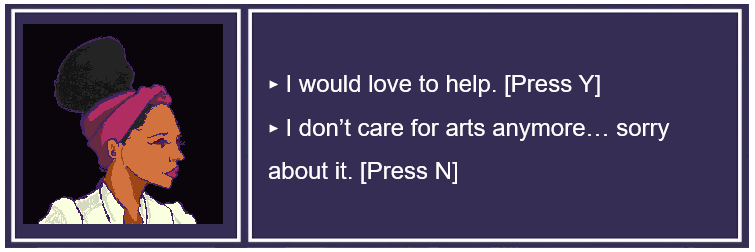
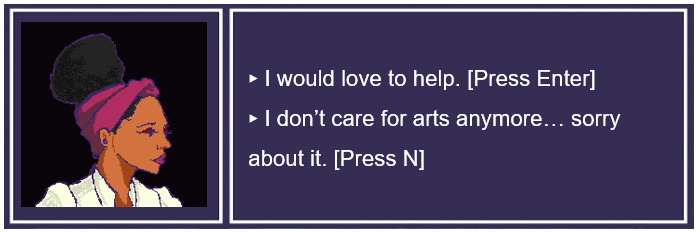
most

diff --git a/mingame.js b/mingame.js
@@ -1,10 +1,10 @@
 const letters = ["A", "S", "D", "W"];
 const left = ["I", "J", "K", "L"];
 // add right hand side letters
-let rLetter, lLetter, chosenLetter, score, counter, lives, levelOne, levelTwo, levelThree;
-lives =3;
+let rLetter, lLetter, chosenLetter, score, counter, lives;
 score = 0;
-let miniGameOn = false
+let miniGameOn = false;
+let gameIsOver = false;
 
 function randomizeLetter(array) {
   return array[Math.floor(Math.random() * array.length)];
@@ -33,37 +33,51 @@ let letterPressed = false;
 ;
 function startMiniGame(t) {
   miniGameOn = true
-  lives =3;
+  lives =10;
 
   miniGameInterval = setInterval(() => {
     showLetter();
     counter ++;
     if (!letterPressed) {
       lives -= 1;
+      console.log(lives);
     }
-    if (counter >15) {
+    if (counter >15 || gameIsOver) {
         clearInterval(miniGameInterval);
         context.clearRect(100, 375, 80, 80);
         context.clearRect(300, 375, 80, 80);
         miniGameOn = false
     }
-    /* checkGameOver(); */
+     /* checkGameOver();  */
   }, t);
+
+  if (gameIsOver) {
+    clearInterval(miniGameInterval);
+    clearInterval(leave);
+    return
+  }
+
 return counter = 0;
 }
 
-//let leave = setInterval(checkGameOver, 20);
-
-/* function checkGameOver(){
-    if (lives<=0) {
-        console.log('game over!');
-        gameOver.style.display = "block";
-        clearInterval(miniGameInterval);
-    } 
-} */
+let leave = setInterval(checkGameOver, 20); 
 
 
-const gameOver = document.querySelector("#over-canvas");
+
+ function checkGameOver(){
+    if (lives<0 ) {
+      
+      const gameOver = new Image();
+      gameOver.src = `/Dialogues/S4.PNG`
+      gameOver.addEventListener("load", () => {
+          context.drawImage(gameOver,25,313,450,147);
+    }) 
+    return gameIsOver= true;
+}  
+ }
+
+
+
 
 
 document.addEventListener("keydown", (e) => {
@@ -76,12 +90,27 @@ document.addEventListener("keydown", (e) => {
           } else {
             lives -= 1;
             console.log(lives);
-           /*  if (lives<=0) {
-                gameOver.style.display = "block";
-                return;
-            } */
+          
           }
     }
   }
     letterPressed = false;
+
+    if (e.key === "Tab" && gameIsOver) {
+      girl.x = 50;
+      girl.y = 400;
+      score = 0;
+      lives =10;
+      miniGameOn = false;
+      gameIsOver = false;
+      talking = 0;
+      levelUp = 0;
+      isFirstDialog = false;
+      isSecondDialog = false;
+      isThirdDialog = false;
+      context.clearRect(0,0, 500, 500);
+      girl.draw();
+      boy.draw();
+      
+    }
 });

diff --git a/dialoge.js b/dialoge.js
@@ -3,7 +3,6 @@ let imgCounter = 1;
 function firstDialogue() {
    /*  debugger; */
         if ( imgCounter >5) {
-            debugger;
             context.clearRect(25, 313,450, 147);
             return
         }
@@ -47,6 +46,71 @@ function thirdDialogue() {
 }
 
 
+document.addEventListener(`keydown`, (e) => {
+    if ( (e.key).toLowerCase() =="n" && imgCounter === 3 ) {
+        imgCounter+=2;
+        firstDialogue(imgCounter);
+        gameisOver =true;
+        const gOver = new Image();
+        gOver.src = `/Dialogues/S4.PNG`
+        gOver.addEventListener("load", () => {
+                setTimeout(()=> {
+                context.drawImage(gOver,25,313,450,147);
+        },2500)   
+      })
+    }
+    if ((e.key).toLowerCase() =="n" && imgCounter === 8 ) {
+        imgCounter+=2;
+        secondDialogue(imgCounter);
+        gameisOver =true;
+        const gOver = new Image();
+      gOver.src = `/Dialogues/S4.PNG`;
+      gOver.addEventListener("load", () => {
+            setTimeout(()=> {
+            context.drawImage(gOver,25,313,450,147);
+        },1500)   
+      })
+       
+        
+    }
+    if ((e.key).toLowerCase() =="n" && imgCounter === 13) {
+        imgCounter+=2;
+        thirdDialogue(imgCounter);
+        gameisOver =true;
+        const gOver = new Image();
+        gOver.src = `/Dialogues/S4.PNG`
+        gOver.addEventListener("load", () => {
+                setTimeout(()=> {
+                context.drawImage(gOver,25,313,450,147);
+        },1500)   
+      })
+        
+    }
+
+    
+});
+
+document.addEventListener(`keydown`, (e)=> {
+    if (e.key === "Tab" && gameIsOver) {
+        girl.x = 50;
+        girl.y = 400;
+        score = 0;
+        lives =10;
+        miniGameOn = false;
+        gameIsOver = false;
+        talking = 0;
+        levelUp = 0;
+        isFirstDialog = false;
+        isSecondDialog = false;
+        isThirdDialog = false;
+        context.clearRect(0,0, 500, 500);
+        girl.draw();
+        boy.draw();
+        
+      }
+});
+
+
 
 document.addEventListener(`keydown`, (e) => {
     
@@ -58,6 +122,7 @@ document.addEventListener(`keydown`, (e) => {
             secondDialogue(imgCounter);
         } else if (imgCounter >=12 && imgCounter < 16 && isThirdDialog) {
             thirdDialogue(imgCounter);
+            
         }
     }
 }

diff --git a/game.js b/game.js
@@ -34,12 +34,18 @@ let isSecondDialog = false;
 let isThirdDialog = false;
 
 
+const firstScreen = new Image();
+firstScreen.src = `/Dialogues/S0.PNG`
+firstScreen.addEventListener("load", () => {
+    context.drawImage(firstScreen,25,200,450,147);
+})
+
 document.addEventListener(`keydown`, (e)=> {
     
     if (e.key !== "ArrowUp" && e.key !== "ArrowDown" && e.key !== "ArrowLeft" && e.key !== "ArrowRight") {
         return;
     }
-
+    context.clearRect(0,0, 500,500);
     context.clearRect(girl.x, girl.y,girl.w, girl.h);
     context.clearRect(boy.x, boy.y, boy.w, boy.h);
     boy.draw();
@@ -98,7 +104,7 @@ document.addEventListener("keydown", (e) => {
         switch(levelUp) {
             case 0: 
                 startMiniGame(1500);
-                levelUp ++;
+                levelUp ++;          
                         break;
             case 1: 
                 startMiniGame(1000);
